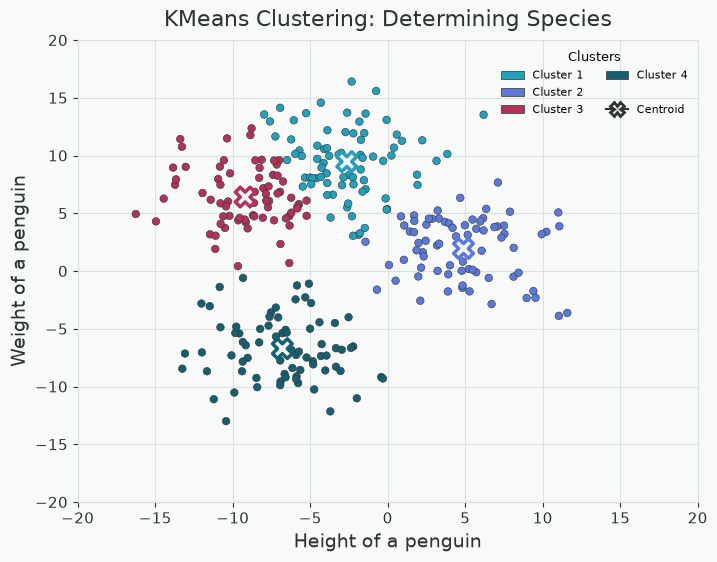
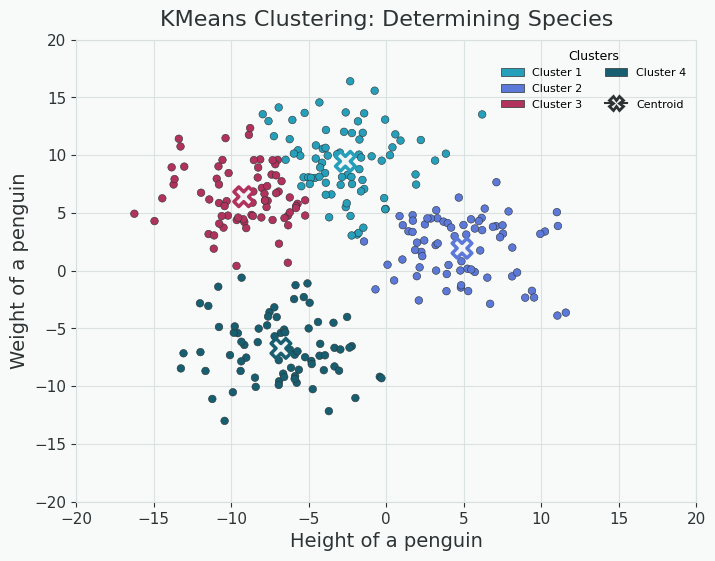
using own plot config

diff --git a/CCPlots/implementation/KMeansExample.py b/CCPlots/implementation/KMeansExample.py
@@ -1,31 +1,25 @@
-from sklearn.datasets import make_blobs
-from sklearn.cluster import KMeans
+"""
+Animated K-Means clustering showing cluster assignment and centroid movement
+over 30 iterations. Also produces a static final-frame PNG. Runs for k = 3
+and k = 4.
+
+Figures
+-------
+- ``kmeans_animation_k{n_clusters}.gif`` / ``_NL.gif`` — animation
+- ``kmeans_clustering_k{n_clusters}.png`` / ``_NL.png`` — final frame
+
+Configuration
+-------------
+``CCPlots/plot_configs/kmeans.json``
+"""
 import matplotlib.patches as mpatches
 import matplotlib.pyplot as plt
 from matplotlib.animation import FuncAnimation
+from sklearn.cluster import KMeans as SKKMeans
+from sklearn.datasets import make_blobs
 
 from CCPlots.PlotExample import PlotExample
-from CCPlots.config import BITROOT_PALETTE, apply_bitroot_style, darken_color, output_path
-
-
-TEXT_BY_LOCALE = {
-    "en": {
-        "title": "KMeans Clustering: Determining Species",
-        "xlabel": "Height of a penguin",
-        "ylabel": "Weight of a penguin",
-        "cluster_label": "Cluster {n}",
-        "centroid_label": "Centroid",
-        "legend_title": "Clusters",
-    },
-    "nl": {
-        "title": "KMeans-clustering: soorten bepalen",
-        "xlabel": "Hoogte van een pingu\u00efn",
-        "ylabel": "Gewicht van een pingu\u00efn",
-        "cluster_label": "Cluster {n}",
-        "centroid_label": "Centro\u00efde",
-        "legend_title": "Clusters",
-    },
-}
+from CCPlots.config import BITROOT_PALETTE, darken_color, output_path
 
 
 CLUSTER_PALETTE = [
@@ -39,7 +33,9 @@ CLUSTER_PALETTE = [
 ]
 
 
-class KMeansExample(PlotExample):
+class KMeans(PlotExample):
+
+    CONFIG_KEY = "kmeans"
 
     centers = None
     scatter = None
@@ -53,7 +49,7 @@ class KMeansExample(PlotExample):
             centers=self.n_clusters,
             cluster_std=3.0,
             random_state=42)
-        self.kmeans = KMeans(
+        self.kmeans = SKKMeans(
             n_clusters=self.n_clusters,
             init='random',
             n_init=1,
@@ -83,47 +79,39 @@ class KMeansExample(PlotExample):
                          fontsize=8, title_fontsize=9,
                          loc='upper right', ncol=2)
 
-    def main(self, locale_key="en"):
-        labels = TEXT_BY_LOCALE[locale_key]
-        suffix = "_NL" if locale_key == "nl" else ""
+    def main(self):
+        for _locale, labels, suffix in self.iter_locales():
+            fig, ax = self.create_figure()
+            ax.set_xlim(-20, 20)
+            ax.set_ylim(-20, 20)
 
-        fig, ax = plt.subplots(figsize=(8, 6),
-                               facecolor=BITROOT_PALETTE['background'])
-        ax.set_xlim(-20, 20)
-        ax.set_ylim(-20, 20)
+            self.scatter = ax.scatter(self.X[:, 0], self.X[:, 1], s=30,
+                                      c='grey', edgecolor=BITROOT_PALETTE['text'],
+                                      linewidth=0.4)
+            self.centers = ax.scatter([], [], s=200, marker='X',
+                                      facecolor=BITROOT_PALETTE['white'],
+                                      edgecolor=BITROOT_PALETTE['text'],
+                                      linewidth=2)
 
-        self.scatter = ax.scatter(self.X[:, 0], self.X[:, 1], s=30,
-                                  c='grey', edgecolor=BITROOT_PALETTE['text'],
-                                  linewidth=0.4)
-        self.centers = ax.scatter([], [], s=200, marker='X',
-                                  facecolor=BITROOT_PALETTE['white'],
-                                  edgecolor=BITROOT_PALETTE['text'],
-                                  linewidth=2)
+            ax.set_title(labels['title'],
+                         fontsize=16, color=BITROOT_PALETTE['text'], pad=10)
+            ax.set_xlabel(labels['xlabel'],
+                          fontsize=14, color=BITROOT_PALETTE['text'])
+            ax.set_ylabel(labels['ylabel'],
+                          fontsize=14, color=BITROOT_PALETTE['text'])
 
-        ax.set_title(labels['title'],
-                     fontsize=16, color=BITROOT_PALETTE['text'], pad=10)
-        ax.set_xlabel(labels['xlabel'],
-                      fontsize=14, color=BITROOT_PALETTE['text'])
-        ax.set_ylabel(labels['ylabel'],
-                      fontsize=14, color=BITROOT_PALETTE['text'])
+            self.legend = self._make_legend(ax, labels)
+            self.apply_style(ax)
 
-        self.legend = self._make_legend(ax, labels)
-        apply_bitroot_style(ax)
+            ani = FuncAnimation(fig, self.update, frames=30,
+                                init_func=self.init_func, interval=10,
+                                repeat=False)
+            anim_path = self.config.resolve_output("animation", n_clusters=self.n_clusters, suffix=suffix)
+            ani.save(output_path(anim_path), writer='pillow')
 
-        ani = FuncAnimation(fig, self.update, frames=30,
-                            init_func=self.init_func, interval=10,
-                            repeat=False)
-        ani.save(output_path(f"kmeans_animation_k{self.n_clusters}{suffix}.gif"),
-                 writer='pillow')
-
-        fig.savefig(output_path(f"kmeans_clustering_k{self.n_clusters}{suffix}.png"),
-                    bbox_inches='tight', pad_inches=0.1)
-        plt.close(fig)
-
-    @classmethod
-    def run_all_locales(cls, n_clusters):
-        for locale_key in ("en", "nl"):
-            cls(n_clusters=n_clusters).main(locale_key=locale_key)
+            static_path = self.config.resolve_output("static", n_clusters=self.n_clusters, suffix=suffix)
+            fig.savefig(output_path(static_path), bbox_inches='tight', pad_inches=0.1)
+            plt.close(fig)
 
     def update(self, frame):
         self.kmeans.max_iter = frame + 1
@@ -147,5 +135,5 @@ class KMeansExample(PlotExample):
 
 
 if __name__ == "__main__":
-    for k in (3, 4):
-        KMeansExample.run_all_locales(n_clusters=k)
+    for k in KMeans().config.params["n_clusters"]:
+        KMeans(n_clusters=k).main()
